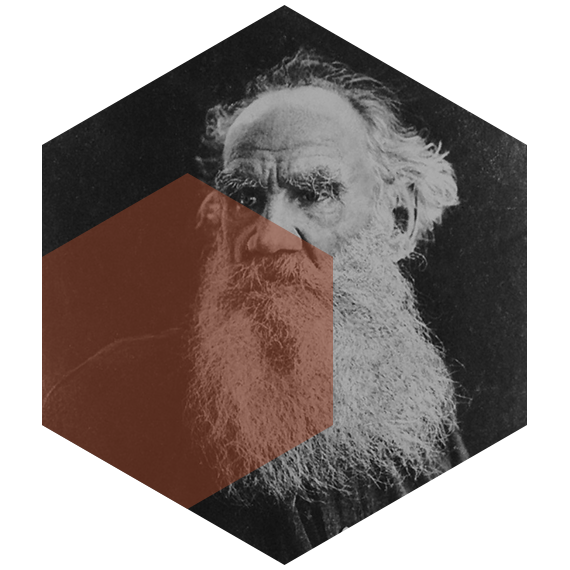
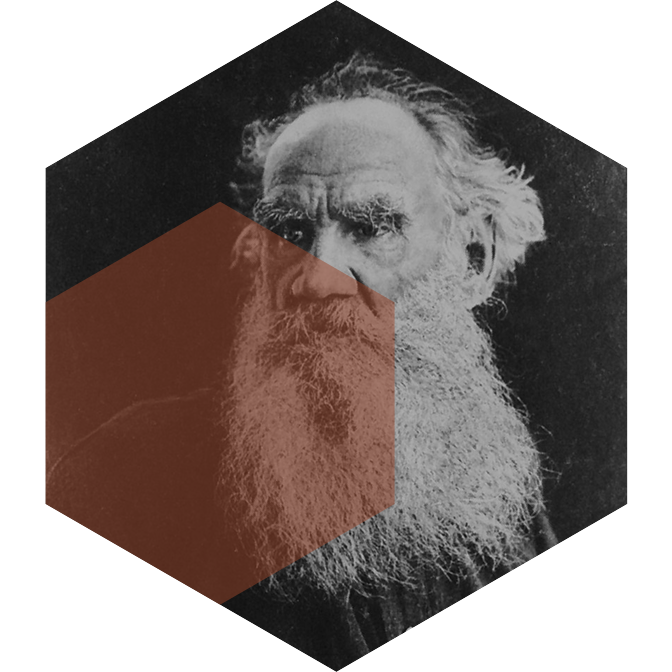
Resize SubMenu

diff --git a/InteractiveTable/Pages/SubMenu.xaml b/InteractiveTable/Pages/SubMenu.xaml
@@ -4,17 +4,17 @@
       xmlns:mc="http://schemas.openxmlformats.org/markup-compatibility/2006" 
       xmlns:d="http://schemas.microsoft.com/expression/blend/2008" 
       mc:Ignorable="d" 
-      d:DesignHeight="300" d:DesignWidth="300" Width="1600" Height="900">
+      d:DesignHeight="300" d:DesignWidth="300" Width="1920" Height="1080">
     <Canvas>
-        <Button x:Name="back_button" Template="{DynamicResource BackButtonTemplate}" Click="Back_Button_Click" Canvas.Left="60" Canvas.Top="795"/>
-        
-        <Button x:Name="milestones_button" Template="{DynamicResource HexagonButtonTemplate}" Content="/InteractiveTable;component/Images/SubMenu/Milestones.png" Tag="{DynamicResource s_Milestones}" MinWidth="380"
-                FontFamily="/InteractiveTable;component/Fonts/#Basil Bold"  FontSize="48" Foreground="White" Click="Milestones_Button_Click"  Width="570" Height="570" Padding="40,0" Canvas.Left="360" Canvas.Top="55"/>
+        <Button x:Name="back_button" Template="{DynamicResource BackButtonTemplate}" Click="Back_Button_Click" Canvas.Left="75" Canvas.Top="955" FocusVisualStyle="{x:Null}"/>
 
-        <Button x:Name="pedigree_button" Template="{DynamicResource HexagonButtonTemplate}" Content="/InteractiveTable;component/Images/SubMenu/Pedigree.png" Tag="{DynamicResource s_Pedigree}" MinWidth="300"
-                FontFamily="/InteractiveTable;component/Fonts/#Basil Bold"  FontSize="30" Foreground="White" Click="Pedigree_Button_Click"  Width="338" Height="338" Padding="20,0" Canvas.Left="885" Canvas.Top="240"/>
+        <Button x:Name="milestones_button" Template="{DynamicResource HexagonButtonTemplate}" Content="/InteractiveTable;component/Images/SubMenu/Milestones.png" Tag="{DynamicResource s_Milestones}" MinWidth="400" FocusVisualStyle="{x:Null}"
+                FontFamily="/InteractiveTable;component/Fonts/#Basil Bold"  FontSize="55" Foreground="White" Click="Milestones_Button_Click"  Width="672" Height="672" Padding="45,0" Canvas.Left="435" Canvas.Top="75"/>
 
-        <Button x:Name="family_button" Template="{DynamicResource HexagonButtonTemplate}" Content="/InteractiveTable;component/Images/SubMenu/Family.png" Tag="{DynamicResource s_Family}" MinWidth="300"
-                FontFamily="/InteractiveTable;component/Fonts/#Basil Bold"  FontSize="30" Foreground="White" Click="Family_Button_Click"  Width="338" Height="338" Padding="20,0" Canvas.Left="720" Canvas.Top="505"/>
+        <Button x:Name="pedigree_button" Template="{DynamicResource HexagonButtonTemplate}" Content="/InteractiveTable;component/Images/SubMenu/Pedigree.png" Tag="{DynamicResource s_Pedigree}" MinWidth="350" FocusVisualStyle="{x:Null}"
+                FontFamily="/InteractiveTable;component/Fonts/#Basil Bold"  FontSize="35" Foreground="White" Click="Pedigree_Button_Click"  Width="406" Height="406" Padding="25,0" Canvas.Left="1060" Canvas.Top="285"/>
+
+        <Button x:Name="family_button" Template="{DynamicResource HexagonButtonTemplate}" Content="/InteractiveTable;component/Images/SubMenu/Family.png" Tag="{DynamicResource s_Family}" MinWidth="350" FocusVisualStyle="{x:Null}"
+                FontFamily="/InteractiveTable;component/Fonts/#Basil Bold"  FontSize="35" Foreground="White" Click="Family_Button_Click"  Width="406" Height="406" Padding="25,0" Canvas.Left="860" Canvas.Top="600"/>
     </Canvas>
 </Page>
